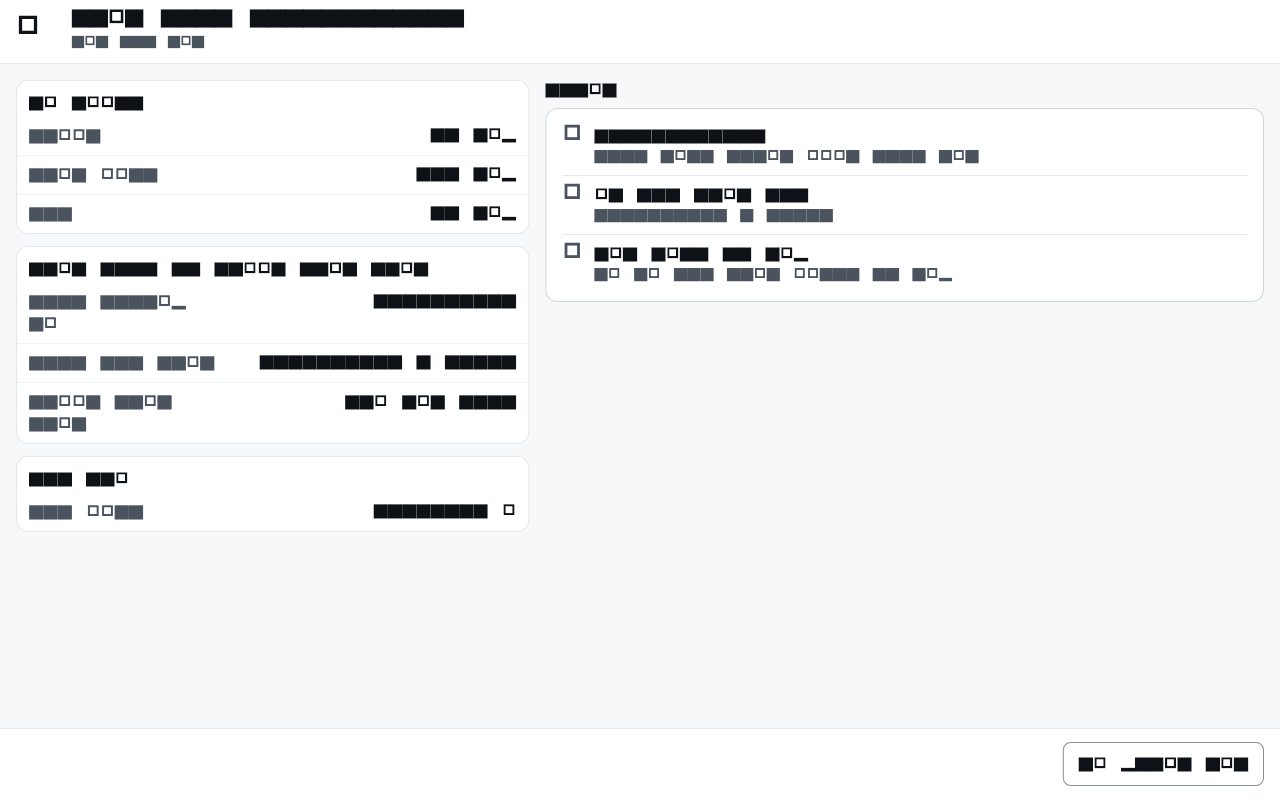
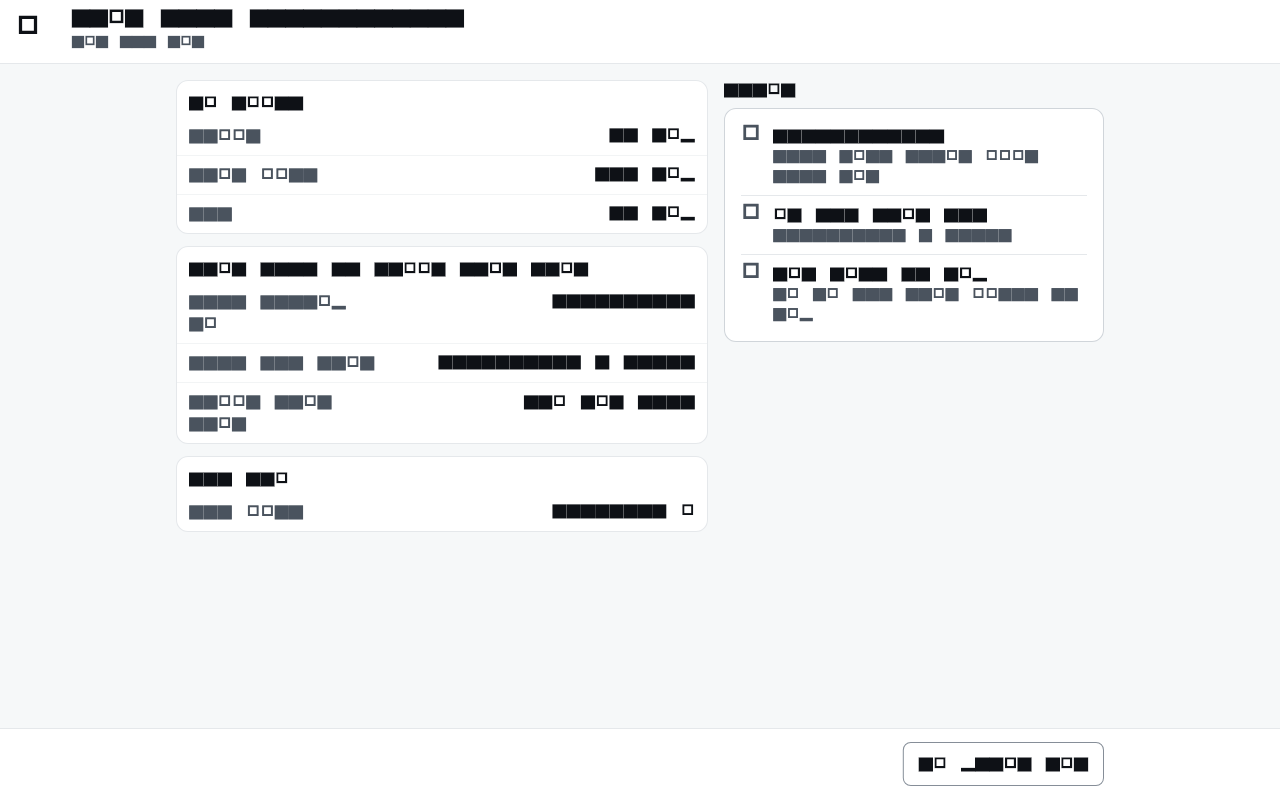
fix(inventory): sửa sau R1 G5-7 — margin_pct null khi doanh thu thuần ≤ 0, bố cục 056 web

diff --git a/apps/erp/lib/features/inventory/presentation/reports/movement_detail_page.dart b/apps/erp/lib/features/inventory/presentation/reports/movement_detail_page.dart
@@ -14,6 +14,12 @@ import 'package:flutter_bloc/flutter_bloc.dart';
 import 'package:go_router/go_router.dart';
 import 'package:vet45_design_system/design_system.dart';
 
+const VResponsiveValue<double> _wideContentMaxWidth = VResponsiveValue(
+  mobile: double.infinity,
+  tablet: 640,
+  desktop: 960,
+);
+
 /// SCR-056: Chi tiết một biến động kho.
 class MovementDetailPage extends StatelessWidget {
   const MovementDetailPage({
@@ -92,9 +98,8 @@ class _MovementDetailView extends StatelessWidget {
     return VPageScaffold(
       title: title,
       subtitle: subtitle,
-      contentMaxWidth: isWide
-          ? VPageScaffold.fullWidth
-          : VPageScaffold.defaultContentMaxWidth,
+      // Web: hai cột (số liệu rộng hơn Nguồn), nội dung có bề rộng tối đa như prototype.
+      contentMaxWidth: isWide ? _wideContentMaxWidth : VPageScaffold.defaultContentMaxWidth,
       leading: reportBackButton(() => _back(context)),
       bottomBar: route == null
           ? null
@@ -215,6 +220,7 @@ class _MovementDetailView extends StatelessWidget {
     return SingleChildScrollView(
       padding: const EdgeInsets.all(VSpacing.space4),
       child: K7Split(
+        wideMain: true,
         main: Column(
           crossAxisAlignment: CrossAxisAlignment.stretch,
           mainAxisSize: MainAxisSize.min,

diff --git a/docs/refactor/plans/T7/T7-G5-7-bao-cao.md b/docs/refactor/plans/T7/T7-G5-7-bao-cao.md
@@ -58,6 +58,7 @@
 | Hao hụt (lãi gộp) | `−Σ amount_vnd` của `COUNT_LOSS`, `WRITE_OFF`, `COUNT_GAIN`, `LOSS_TRUE_UP` theo `business_date` | Kiểm kê thừa bù hao hụt; `REVALUE_ROUNDING` không vào lãi gộp (chỉ giá trị tồn) |
 | Chiết khấu NCC (lãi gộp) | Chỉ **phần đã bán**: Σ `supplier_rebate_allocations.cogs_part_vnd` theo `supplier_rebates.business_date`. Phần tồn (dòng `SUPPLIER_REBATE`) không vào lãi gộp | Phần tồn giảm giá trị tồn, tới lúc bán mới thành giá vốn thấp hơn |
 | Đơn huỷ | Doanh thu của đơn hoàn tất trong kỳ **gồm** đơn bị huỷ sau đó; giảm trừ ghi ở kỳ của `cancelled_at`. Chế độ đơn chỉ liệt kê đơn `lifecycle_status = 'completed'` | Cùng kỳ ⇒ triệt tiêu; khác kỳ ⇒ đúng ngày phát sinh |
+| Tỷ lệ lãi gộp (`margin_pct`) | `null` khi doanh thu thuần ≤ 0 (không chỉ = 0): dòng chỉ có hàng trả ra tỷ lệ dương giả (R1 #1) | Tỷ lệ trên doanh thu âm không có nghĩa |
 | Doanh thu theo đơn | Σ `line_total_minor` (không gồm rounding cấp đơn); chế độ đơn **không** trừ hàng trả về sau | Spec giá vốn mục 7: "theo đơn: giá vốn lúc bán" |
 | Đơn giá gốc bình quân (NCC) | `landed_vnd / (paid_base + free_base)`, 4 chữ số; mẫu 0 ⇒ `null` | Mua X tặng Y chia tiền cho cả hàng tặng (spec 12.1) |
 | Lối vào 077 | "Xem báo cáo tồn" (primary) + "Xem báo cáo lãi gộp" mở kỳ `period_month` → `min(cuối tháng, hôm nay)` | Screen Contract 055 lối vào; spec giá vốn mục 7 |
@@ -537,7 +538,7 @@ _(phiên làm ghi sau mỗi task)_
 
 **Commit:** Task 1–2 `c2cc49dde` · Task 3 `0e6499ea9` · Task 4 `3b293220d` · Task 5 `618c3c582` · Task 6 `e0391b846` · Task 7 `5bcc1277c`.
 
-**Kiểm:** `flutter test test/features/inventory` = **695 đạt / 0 đỏ** (+88 test mới; 607 → 695); `dart analyze` (lib + test inventory) sạch; test hợp đồng SQL xanh. **DB (người dùng chạy local):** `tools/db_check.sh` đủ 3 bước — migration lên đủ, `plpgsql_check` không lỗi mới; `inventory_reports` đạt sau 5 lần sửa **fixture test** (không sửa RPC): `is_ready_to_sell` bị đặt lại sau khi gán bảng giá; đơn sẽ huỷ phải bán nợ (EP-05); thiếu tham số tenant ở `r3`; `cost_runs` thật cho `r7`; `quantity` của lô = tổng nhận gồm hàng tặng (`r9`). Các tệp `inventory_*` khác đạt ở lần chạy đủ đầu tiên. **Còn lại:** chạy lại `tools/db_check.sh` đủ một lần sau các sửa fixture; reset Dev `--linked` (hỏi người dùng).
+**Kiểm:** `flutter test test/features/inventory` = **702 đạt / 0 đỏ** (+95 test mới, gồm 7 test golden; 607 → 702); `dart analyze` (lib + test inventory) sạch; test hợp đồng SQL xanh. **DB (người dùng chạy local):** `tools/db_check.sh` đủ 3 bước — migration lên đủ, `plpgsql_check` không lỗi mới; `inventory_reports` đạt sau 5 lần sửa **fixture test** (không sửa RPC): `is_ready_to_sell` bị đặt lại sau khi gán bảng giá; đơn sẽ huỷ phải bán nợ (EP-05); thiếu tham số tenant ở `r3`; `cost_runs` thật cho `r7`; `quantity` của lô = tổng nhận gồm hàng tặng (`r9`). Các tệp `inventory_*` khác đạt ở lần chạy đủ đầu tiên. **Còn lại:** chạy lại `tools/db_check.sh` đủ một lần sau các sửa fixture; reset Dev `--linked` (hỏi người dùng).
 
 **Quyết định / lệch plan (Ruling):**
 1. **Task 1 + 2 một commit** (`c2cc49dde`): cả hai nằm cùng một migration + một tệp test, tách commit theo hunk không có lợi. Commit **trước khi** `db_check` chạy vì lệnh DB do người dùng chạy — nếu `db_check` đỏ thì sửa tiếp trong migration / test.
@@ -556,6 +557,32 @@ _(phiên làm ghi sau mỗi task)_
 
 **Giới hạn đã biết (ghi báo cáo đồ án):** không phân trang, chỉ mục `stock_movements (tenant_id, product_id, business_date)` là điểm cần thêm khi dữ liệu lớn (mục 2.7).
 
+**Sửa sau R1:**
+- **#1** `margin_pct` (4 chỗ: dòng sản phẩm, tổng, dòng đơn, tổng đơn) chỉ chia khi doanh thu thuần `> 0`, còn lại `null`; `r6_prior_month_return` thêm khẳng định `margin_pct` null. Số thật của ca đó là 103,3% (lãi −31.000 / thuần −30.000), không phải 33,3% như ví dụ trong R1.
+- **#2** 056 web: `K7Split(wideMain: true)` + bề rộng nội dung tối đa 960 px; ảnh `flutter-056-READY-1280.png` chụp lại (số liệu ≈532 px, Nguồn ≈380 px).
+- **#3** **Giữ nguyên, ghi lệch:** chip "Tất cả lô" = Σ `lots[].closing_qty`; dòng sổ có `lot_id` null (chỉ xảy ra nếu xoá lô thủ công — không câu lệnh nào xoá `inventory.lots`, `_post_movements` bắt buộc lô cho sản phẩm theo lô) không vào chip nhưng vào dải số / 055. Không thêm khoá RPC.
+- **#4** số test 702.
+- Migration sửa **tại chỗ** (chưa lên Dev). Cần `tools/db_check.sh` **đủ** (có reset): `--no-reset` không nạp lại migration đã sửa.
+
 ## 6. Review
 
-_(chỉ phiên review ghi)_
+### R1 (2026-11-13) — Đạt có điều kiện: chờ `tools/db_check.sh` đủ một lần; sửa #1, #2; #3 tuỳ chọn
+
+**Đã xem:** toàn bộ `20261119001_inventory_reports.sql` (đối chiếu mục 2.1–2.4 và Review Focus 1–5); `supabase/tests/inventory_reports.sql` (đủ ca r1–r10, r5b; ca r6_prior_month_return dời `completed_at` như Ruling 11); `report_period.dart`, `reports_rules.dart`, `report_status.dart`, `reports_repository.dart`, 3 cubit (vé `_request` chặn trả lời cũ; debounce 300 ms); `reports_routes.dart`, `MovementSource.route` (khớp route có thật: `/warehouse/receipts/:id`, `/sales/orders/:orderId/returns/:returnExchangeId/detail`); `stock_report_page.dart`, `stock_card_page.dart`, `movement_detail_page.dart`; diff `inventory_layout.dart`, `k6_task_list.dart`; ảnh `flutter-056-READY-1280` so `proto-SCR-056-READY-1280`. Phiên review tự chạy: `dart analyze` (lib + test inventory) sạch; `flutter test --no-pub -r compact test/features/inventory` = **702 đạt / 0 đỏ**; golden không đổi sau khi chạy (git sạch). **Không chạy DB.**
+
+| # | Mức | Chỗ | Vấn đề | Sửa |
+|---|---|---|---|---|
+| 1 | Trung bình | `get_gross_profit_report` — `margin_pct` (`20261119001:759-763`, `:808-811`; chế độ đơn `:572-576`, `:618-621`) | `net_revenue < 0` vẫn chia ⇒ dòng **chỉ có hàng trả** ra tỷ lệ **dương**. Ví dụ đúng ca `r6_prior_month_return`: doanh thu 0, giảm trừ 30.000 ⇒ thuần −30.000; giá vốn hoàn −20.000 ⇒ lãi −10.000 ⇒ `−10.000 × 100 / −30.000` = **33,3%** — màn hiện "Lãi −10.000 đ · 33,3%". Cùng lỗi ở dòng tổng của một kỳ ít bán nhiều trả | `net_revenue <= 0` ⇒ `null` (cả 4 chỗ; màn đã hiện "—"). Thêm khẳng định vào `r6_prior_month_return`: `margin_pct` null. Ghi vào bảng "Thêm lúc viết plan" mục 1 (plan chỉ nói `= 0`) |
+| 2 | Thấp | 056 web: `movement_detail_page.dart:95-97` + `K7Split` mặc định (`inventory_layout.dart:31-36`, main 5 / aside 7) | Cột "Nguồn" **rộng hơn** khối số liệu (≈ 720 / 510 px), trang trải hết 1280. Prototype: hai cột gần bằng nhau, khối chính bên trái rộng hơn chút, nội dung có bề rộng tối đa. Lệch này không có trong "Lệch prototype" | `K7Split(wideMain: true, …)`; cân nhắc `VPageScaffold.defaultContentMaxWidth` cho web (như 077). Chụp lại `flutter-056-READY-1280.png`. Nếu giữ ⇒ ghi lệch ở mục 5 |
+| 3 | Thấp | Chip "Tất cả lô" (`stock_card_page.dart:212-218`) | Số = Σ `lots[].closing_qty`, mà `lots` nối **inner join** `inventory.lots` ⇒ dòng sổ có `lot_id` null (lô bị xoá → `on delete set null`) không vào chip, trong khi dải số / 055 có. Plan mục 2.6 ghi "summary.closing của tất cả". Hiếm gặp với dữ liệu đồ án | Tuỳ chọn: RPC thêm `all_lots_closing_qty` (không lọc lô) và chip đọc khoá đó; hoặc ghi lệch ở mục 5 |
+| 4 | Thấp (tài liệu) | Mục 5 "Kiểm" | Ghi 695 test; chạy lại hiện **702** (khả năng 7 test golden Task 7 chưa tính). "Còn lại" vẫn là chạy `tools/db_check.sh` đủ một lần sau 5 commit sửa fixture | Sửa số; ghi kết quả `db_check` đủ khi người dùng chạy |
+
+**Không phải lỗi (đã kiểm):** che tiền ở server (`case when v_is_owner`, `financial_masked`; thẻ kho trả `closing_value` null khi lọc lô); `_assert_actor` là lệnh đầu tiên của cả 5 RPC (`false` ×3, `true` ×2); `_report_range_check` trước mọi truy vấn; `lifecycle_status` của Sales chỉ có `completed` / `cancelled` (`20260830005:132`) ⇒ mọi đơn huỷ đều có doanh thu ở kỳ `completed_at` (không có giảm trừ "mồ côi"); `value_movements` theo tenant (không có `warehouse_id`) — cùng gốc với `product_costs`, khớp r1; `balance_after` = đầu kỳ + cộng dồn theo `ledger_sequence` khớp `summary` (Ruling 10); `before_qty` 056 theo `ledger_sequence` duy nhất trong tenant; Nhập / Xuất tách theo dấu; chiết khấu NCC chỉ `cogs_part_vnd`, hao hụt gồm `COUNT_GAIN` / `LOSS_TRUE_UP`, không gồm `REVALUE_ROUNDING`; NCC chỉ có chiết khấu vẫn có dòng; `STOCKTAKE` / `OTHER` không có route ⇒ không chân; huỷ đơn mở đơn gốc; cột "Khả dụng" theo `show_available` của server; nút rỗng "Xem tất cả" / "Xem tháng trước" đúng điều kiện.
+
+**Cần người dùng chạy (local):**
+```
+tools/db_check.sh
+```
+Gửi lại phần tóm tắt cuối (migration, `plpgsql_check`, các suite `inventory_*`). Sau khi sửa #1: chạy thêm `tools/db_check.sh --no-reset inventory_reports`. Reset Dev `--linked` vẫn chờ người dùng quyết.
+
+**Phiên sửa:** ghi "Sửa sau R1" ở mục 5; chạy lại `flutter test --no-pub -r compact test/features/inventory` + `dart analyze`.
